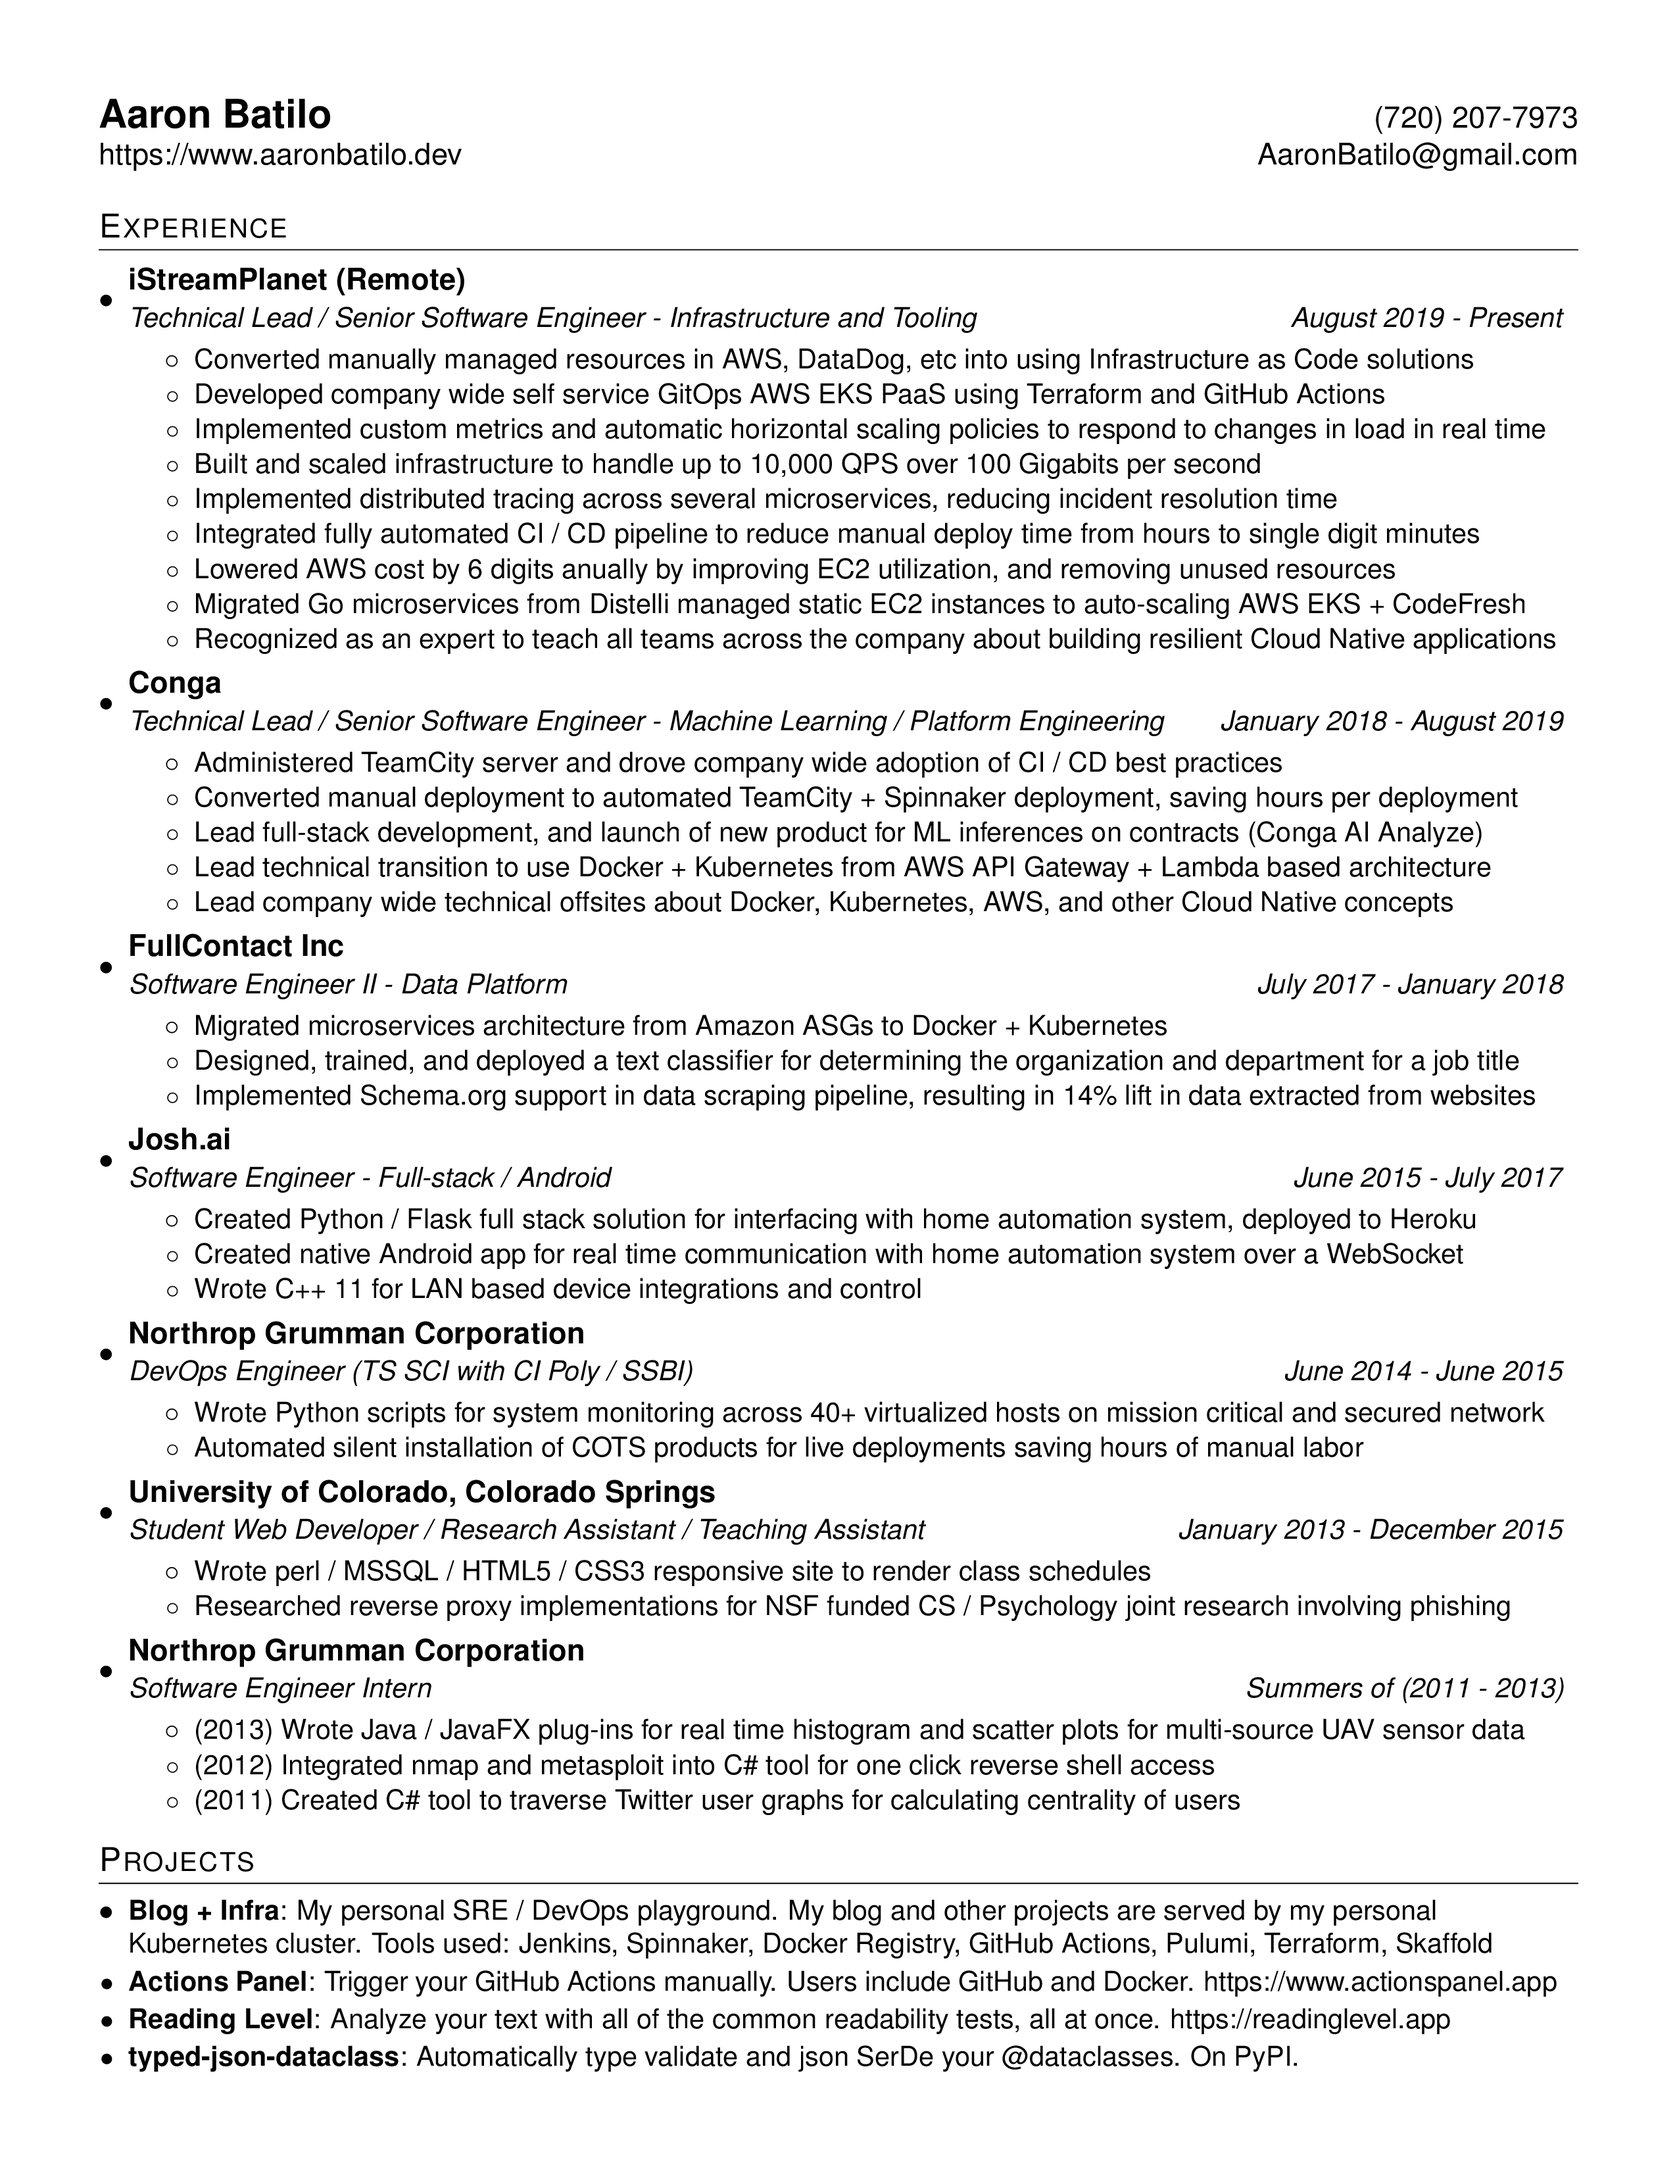
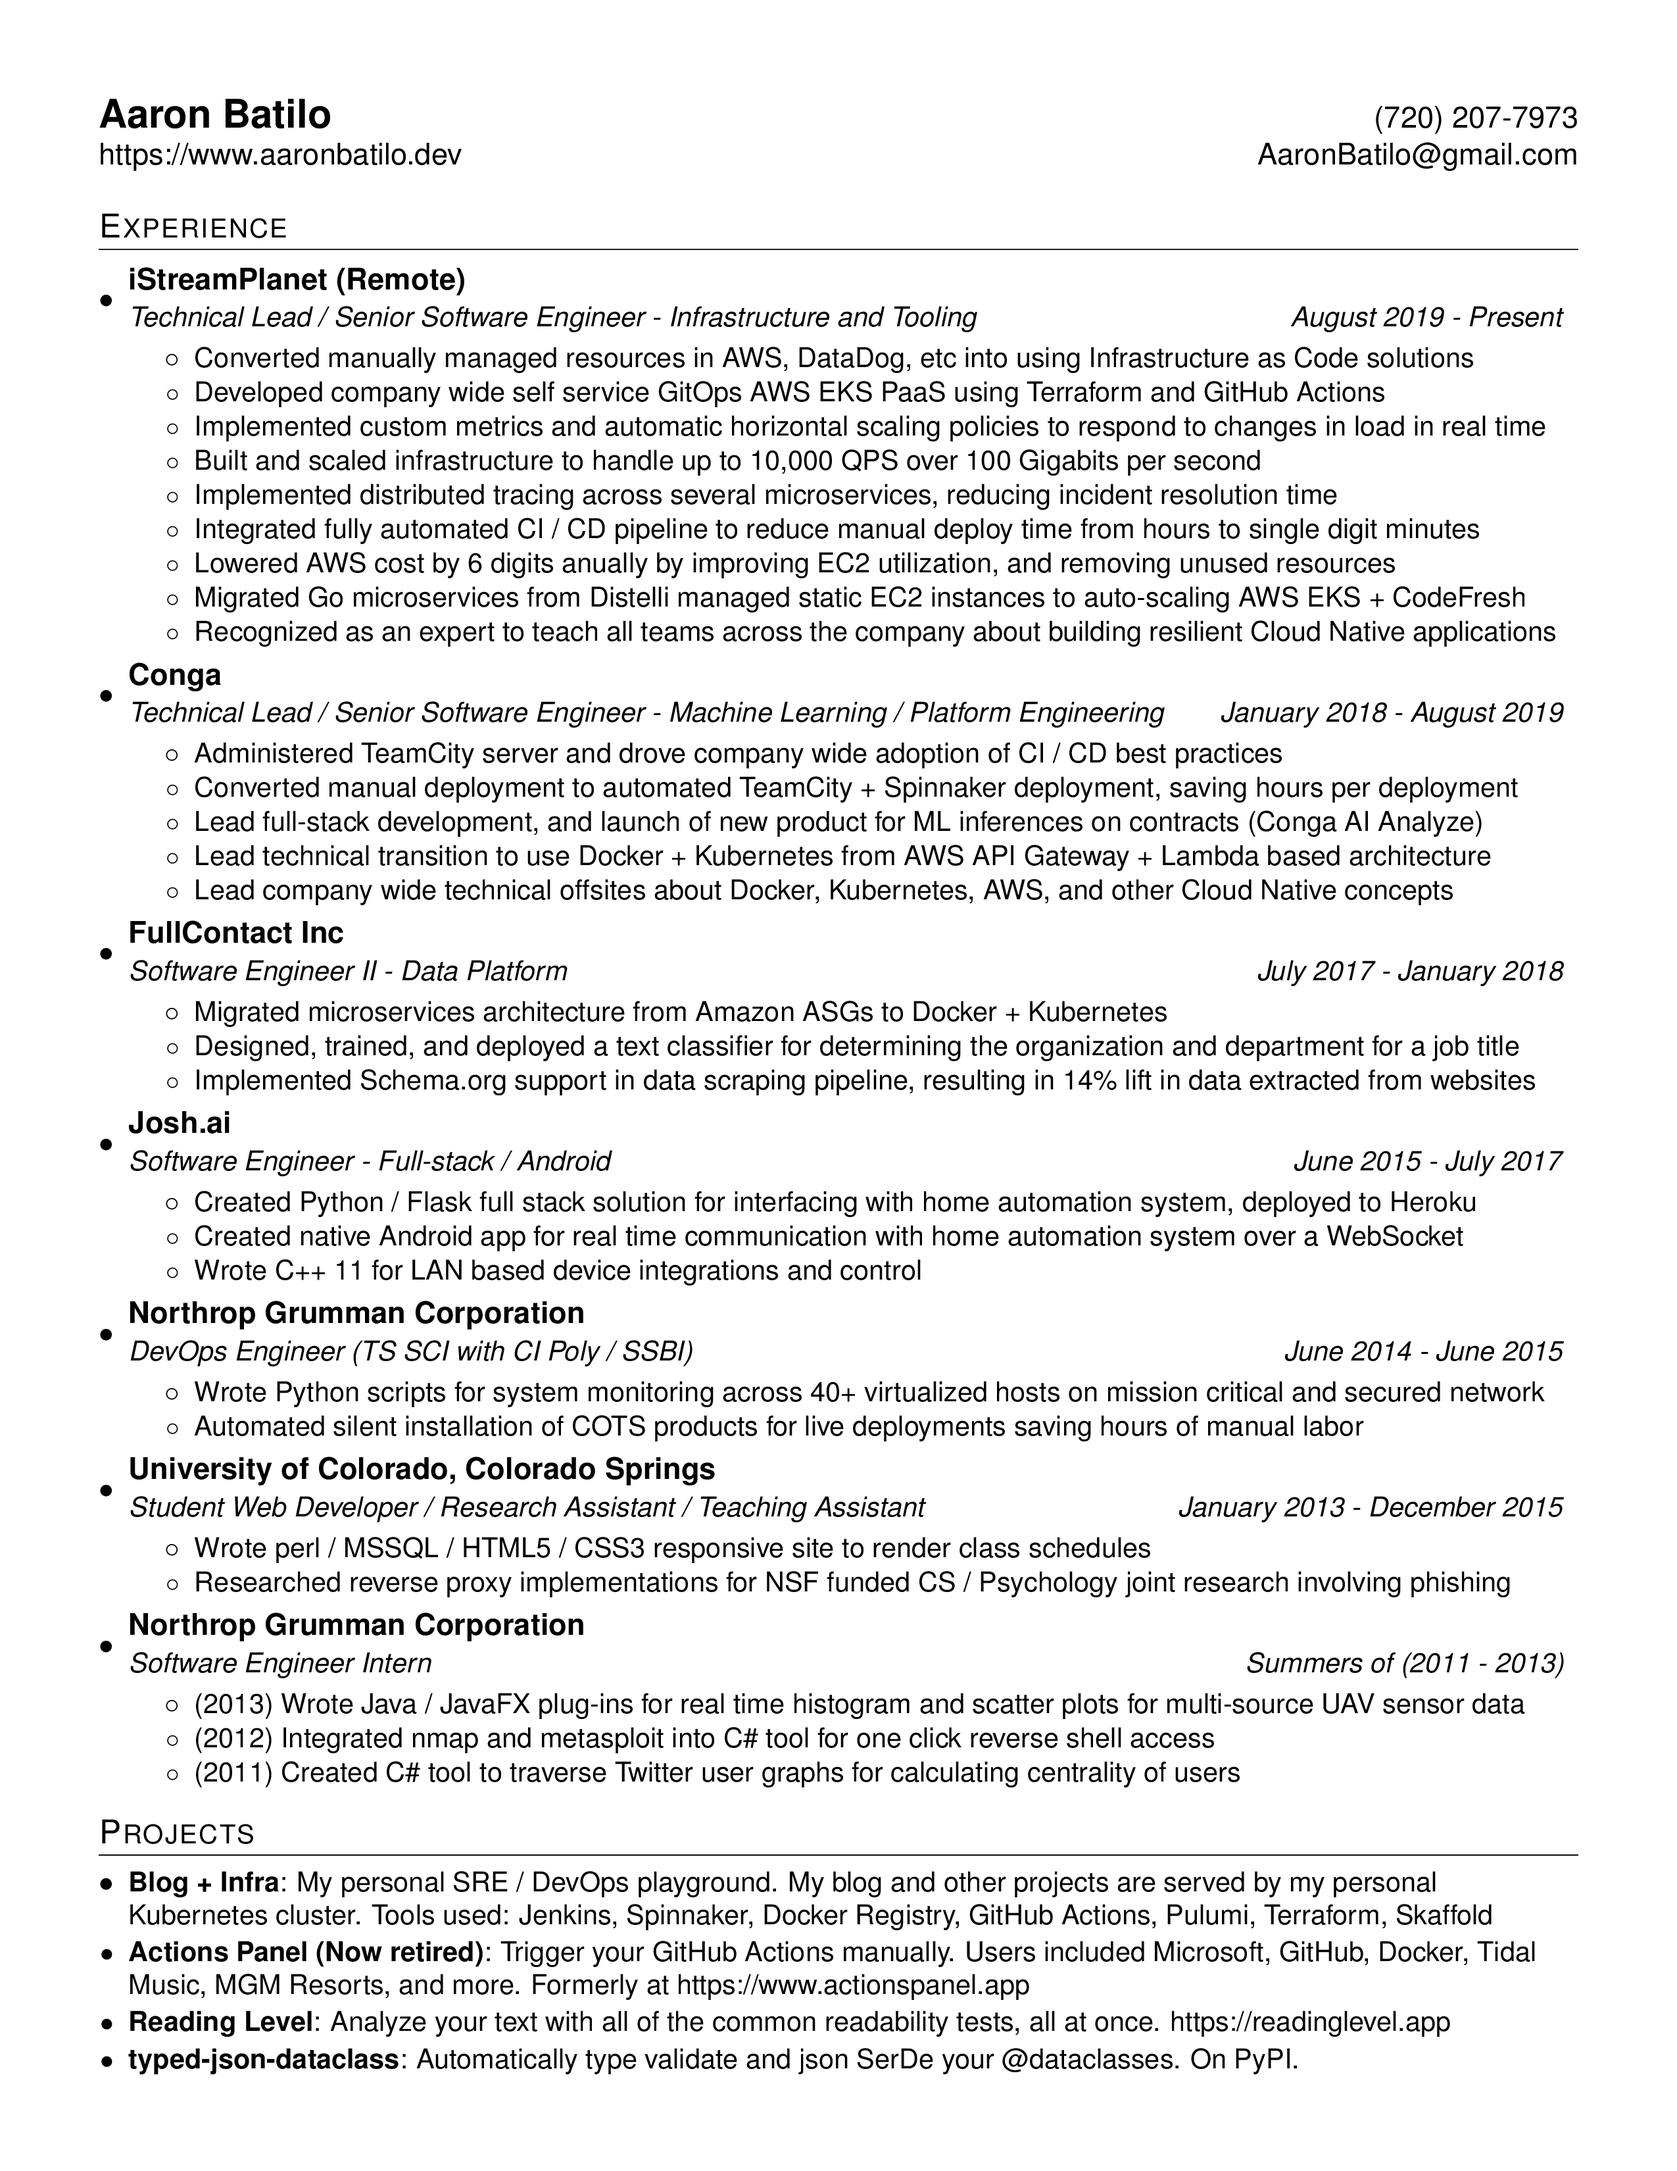
Update actionspanel information

Changed region(s): [[0.062, 0.1561, 0.9294, 0.9676], [0.8675, 0.1873, 0.8984, 0.2185]]

diff --git a/resume.tex b/resume.tex
@@ -177,13 +177,13 @@
   \resumeSubItem{\href{https://www.aaronbatilo.dev}{Blog + Infra}}
     {My personal SRE / DevOps playground. My blog and other projects are served by my
       personal Kubernetes cluster. Tools used: Jenkins, Spinnaker, Docker Registry, GitHub Actions, Pulumi, Terraform, Skaffold}
-  \resumeSubItem{\href{https://www.actionspanel.app}{Actions Panel}}
-  {Trigger your GitHub Actions manually. Users include GitHub and Docker.
+  \resumeSubItem{\href{https://www.actionspanel.app}{Actions Panel (Now retired)}}
+  {Trigger your GitHub Actions manually. Users included Microsoft, GitHub, Docker, Tidal Music, MGM Resorts, and more. Formerly at
       \href{https://www.actionspanel.app}{https://www.actionspanel.app}}
   \resumeSubItem{\href{https://www.readinglevel.app}{Reading Level}}
     {Analyze your text with all of the common readability tests, all at once.
       \href{https://www.readinglevel.app}{https://readinglevel.app}}
-  \resumeSubItem{\href{https://pypi.org/project/typed-json-dataclass/1.2.1/}{typed-json-dataclass}}
+  \resumeSubItem{\href{https://pypi.org/project/typed-json-dataclass/}{typed-json-dataclass}}
     {Automatically type validate and json SerDe your @dataclasses. On PyPI.}
   \resumeSubHeadingListEnd
 \end{document}
